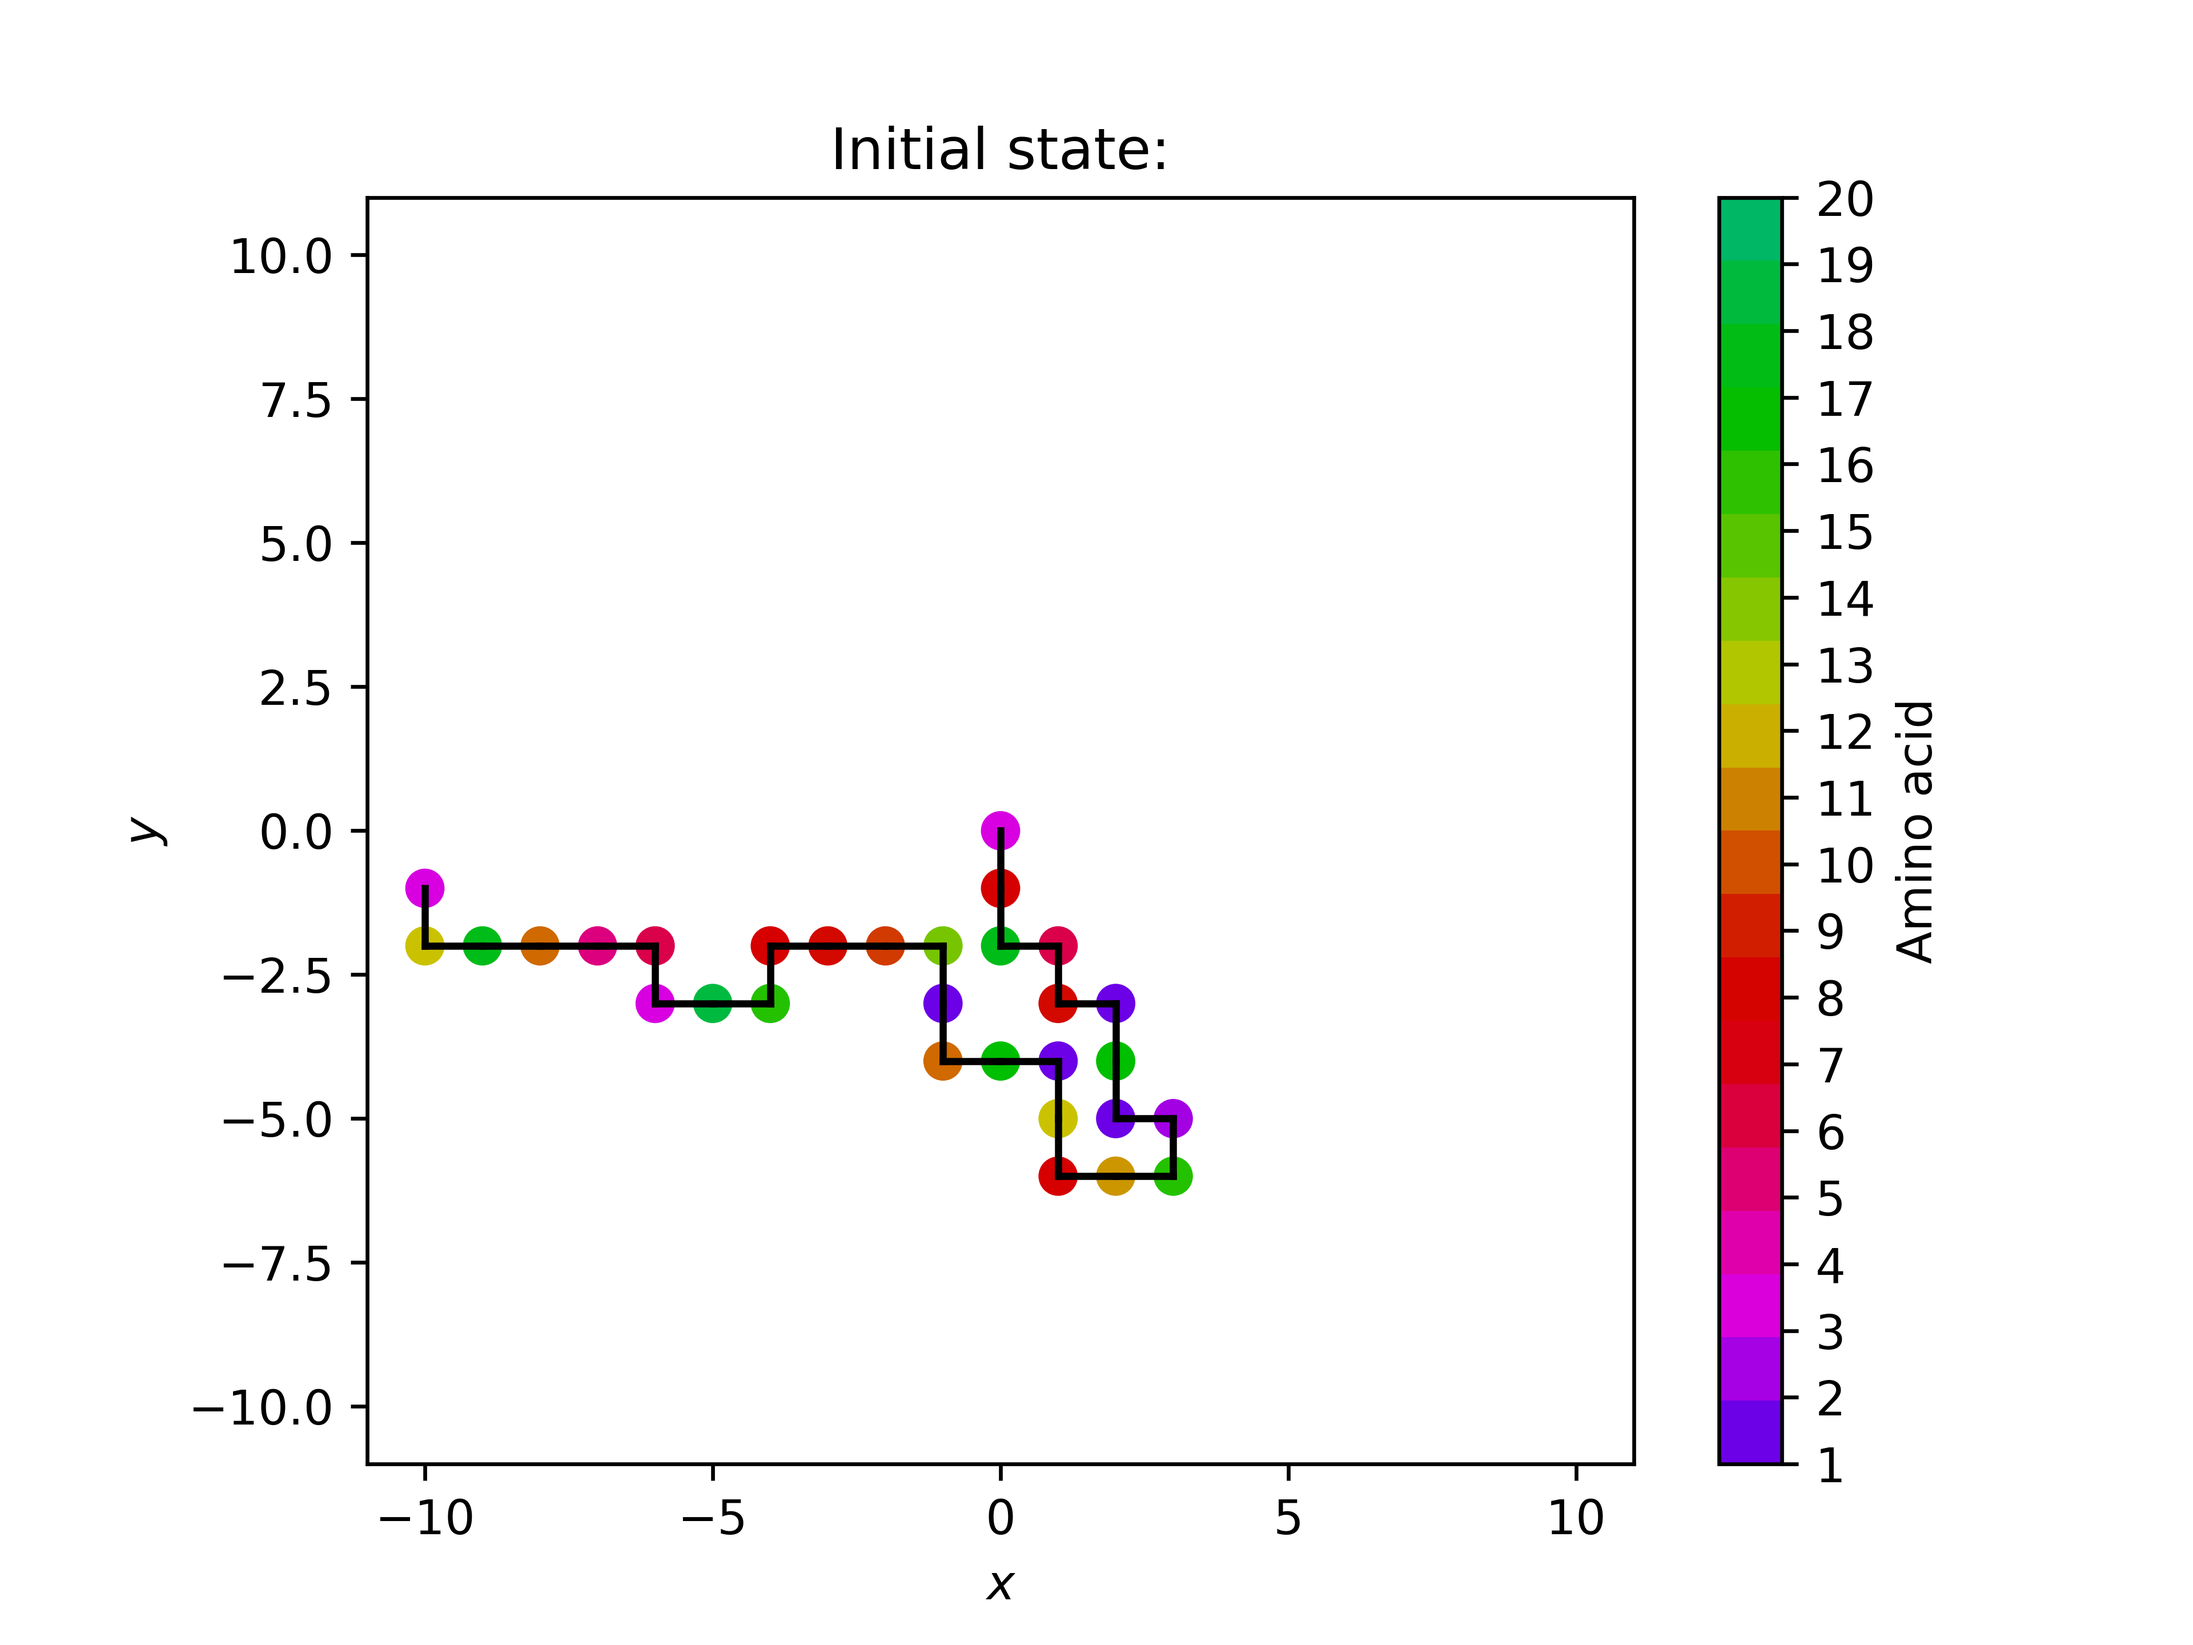
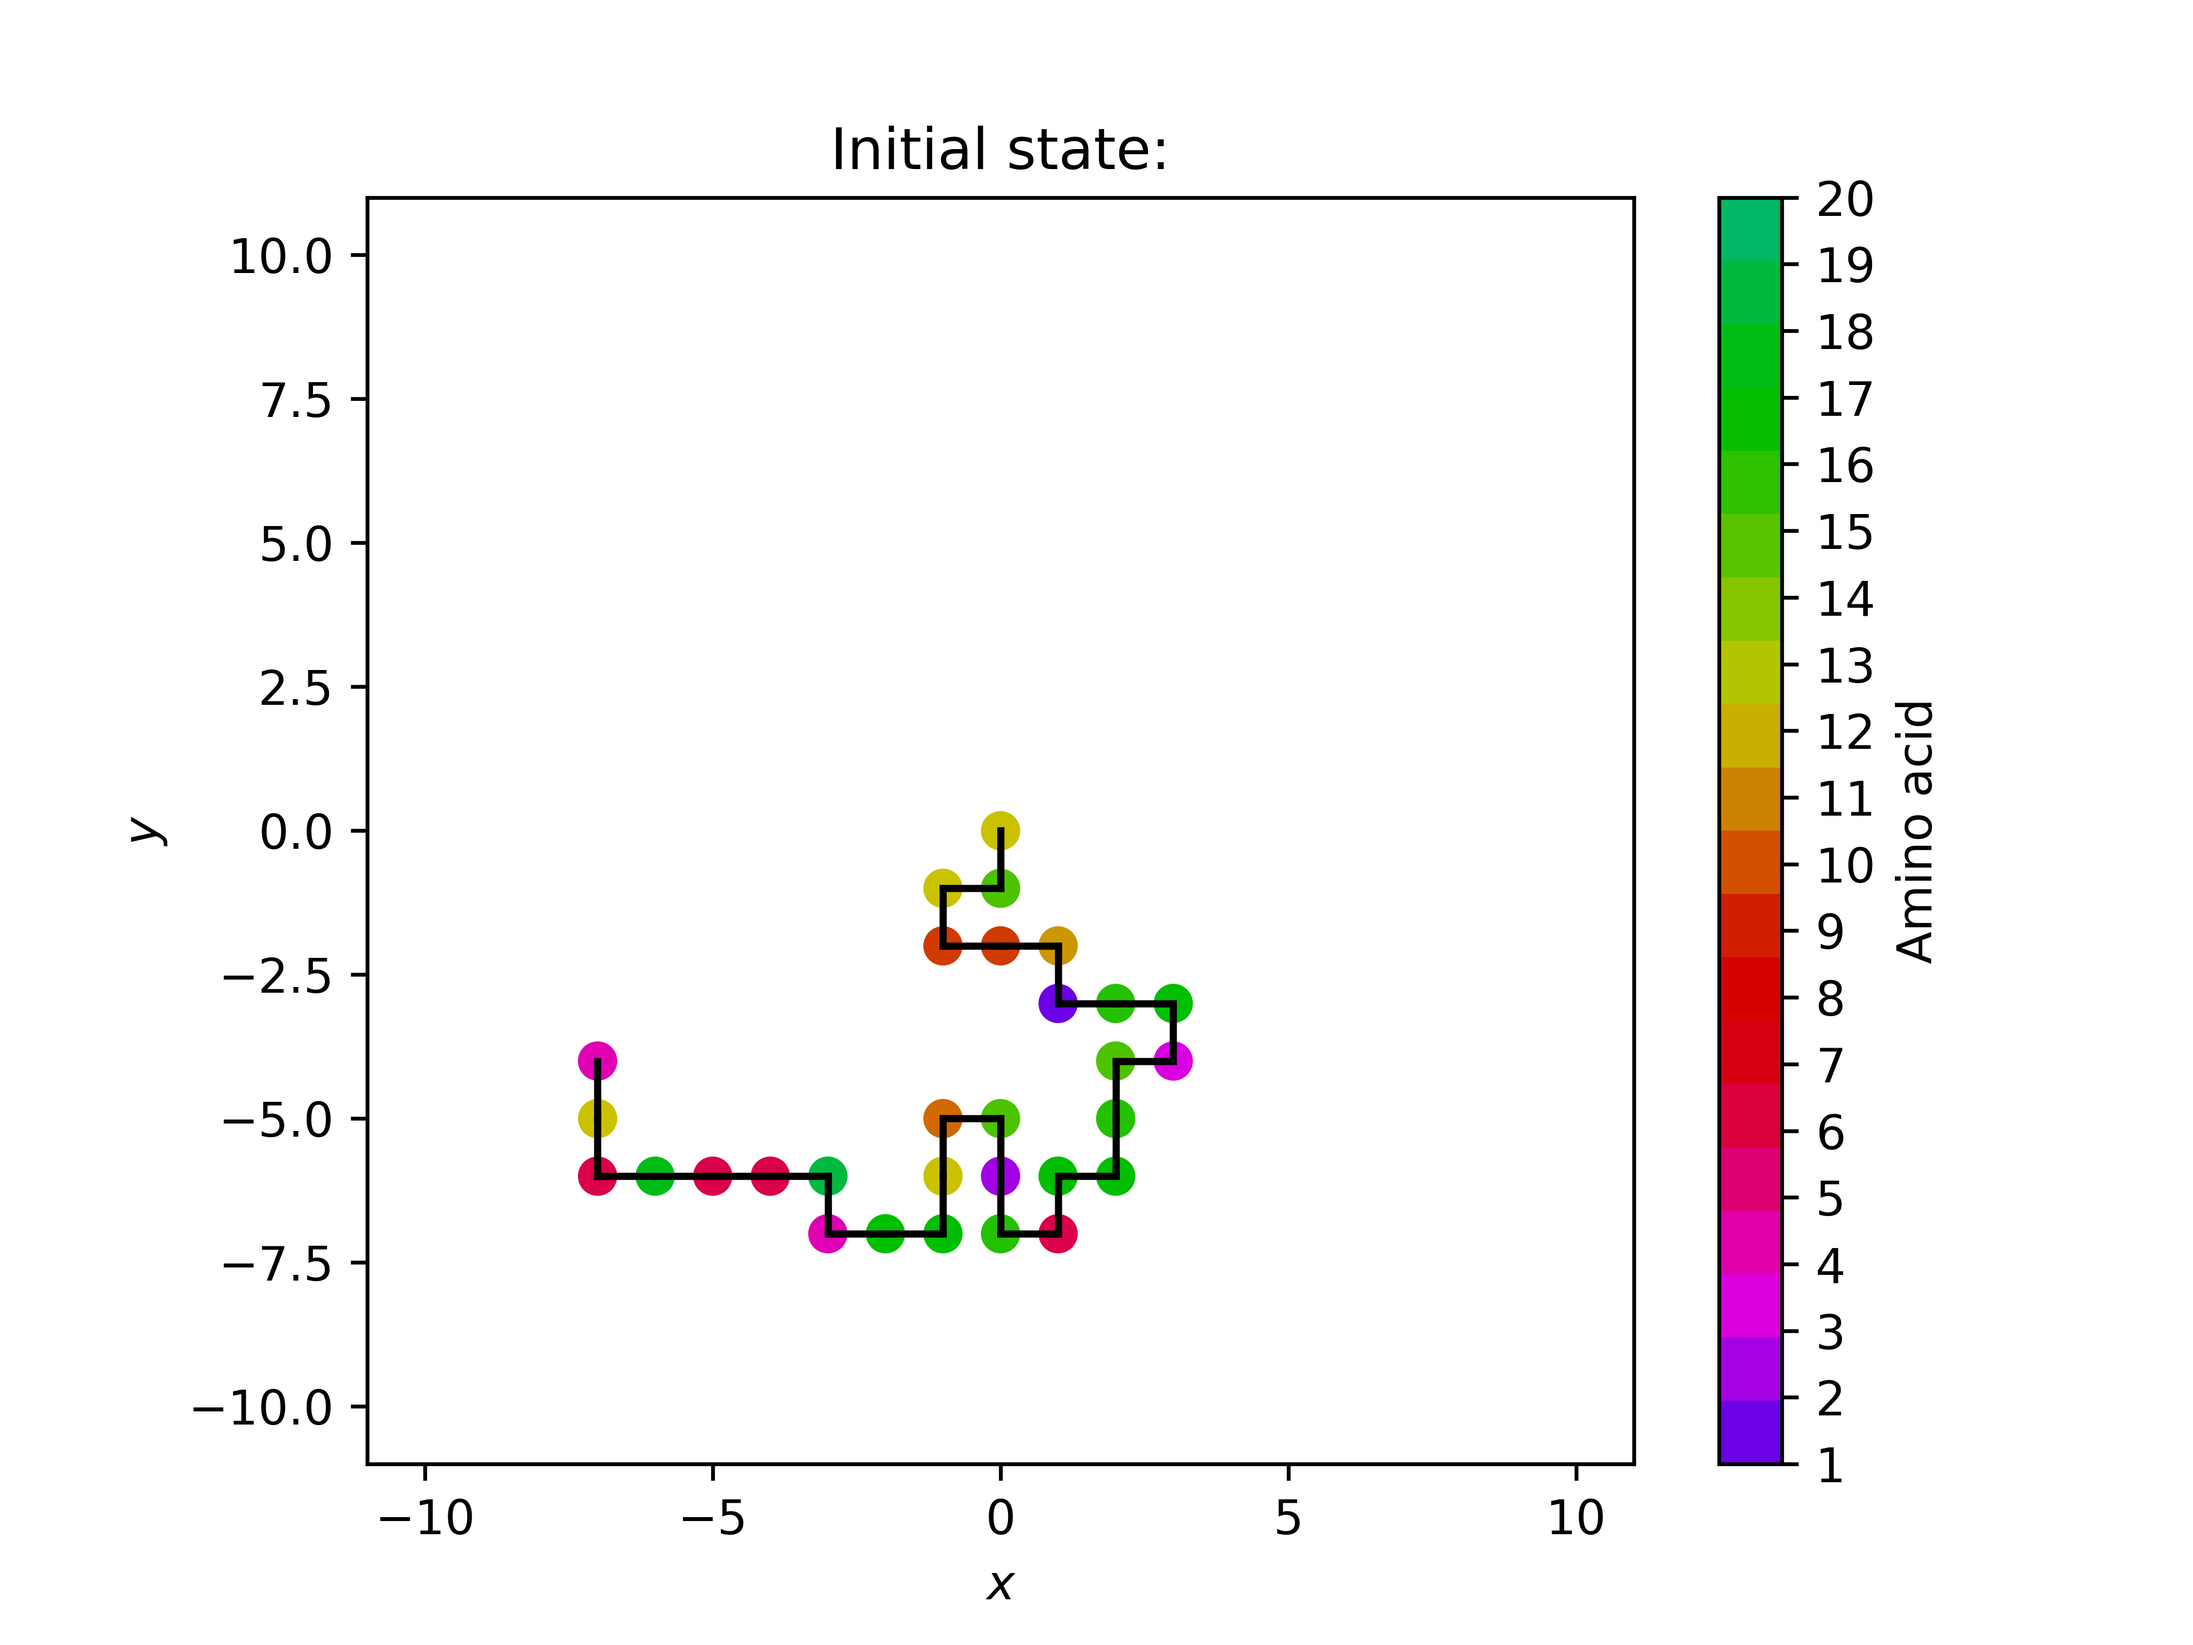
annealing plausible now I think

Changed region(s): [[0.1875, 0.5, 0.5625, 0.7812]]

diff --git a/main.py b/main.py
@@ -17,10 +17,10 @@ def main():
     # energy.eigenvalue_statistics(1000, "data/eigenvalue_distribution.pdf")
     # randomwalk_statistics.mean_sq_pos_stats_both(1000, 100, 100, "data")
     # energy.evolve_protein_plot_energy(30, 1000, 1, "data", False)
-    energy.animated_monte_carlo(30, 100000, 1000, 1000, 5, "data")
+    #energy.animated_monte_carlo(30, 100000, 1000, 1000, 5, "data")
     #annealing.annealing(30, 1000000, "data")
     #annealing.averaged_annealing(30, 100, 10, 10, 0.01, "data")
-    #annealing.annealing_multiple_runs(30, 100, 10000, 100, 10, 1, "data")
+    annealing.annealing_multiple_runs(30, 100, 1000, 20, 10, 1, "data")
 
 if __name__=="__main__":
     main()
